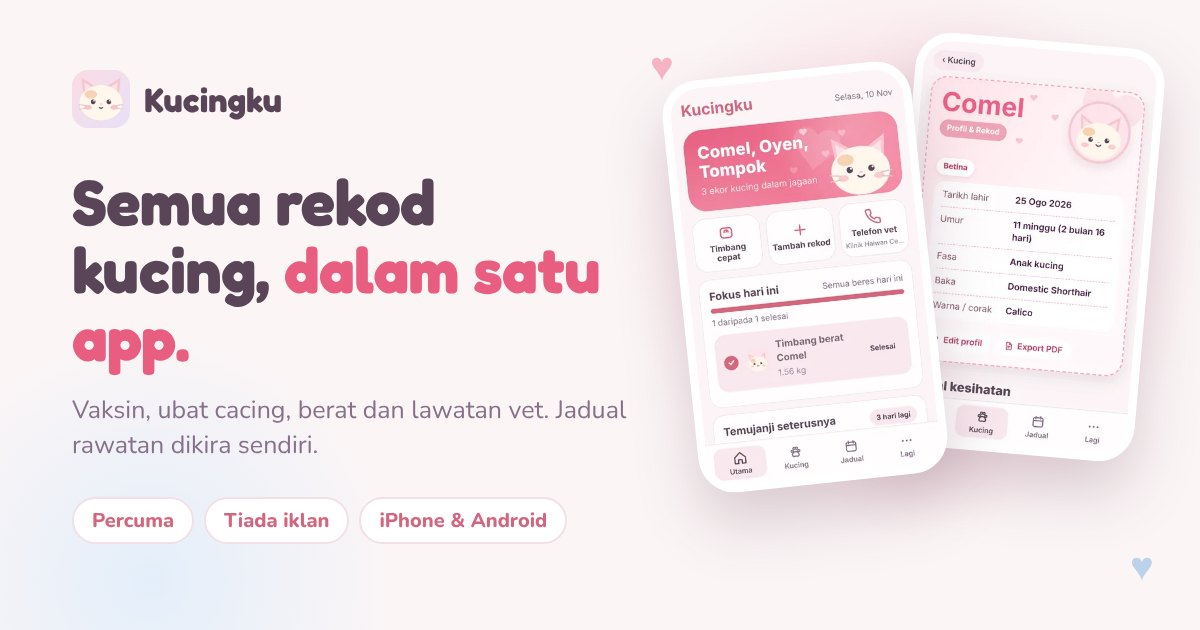
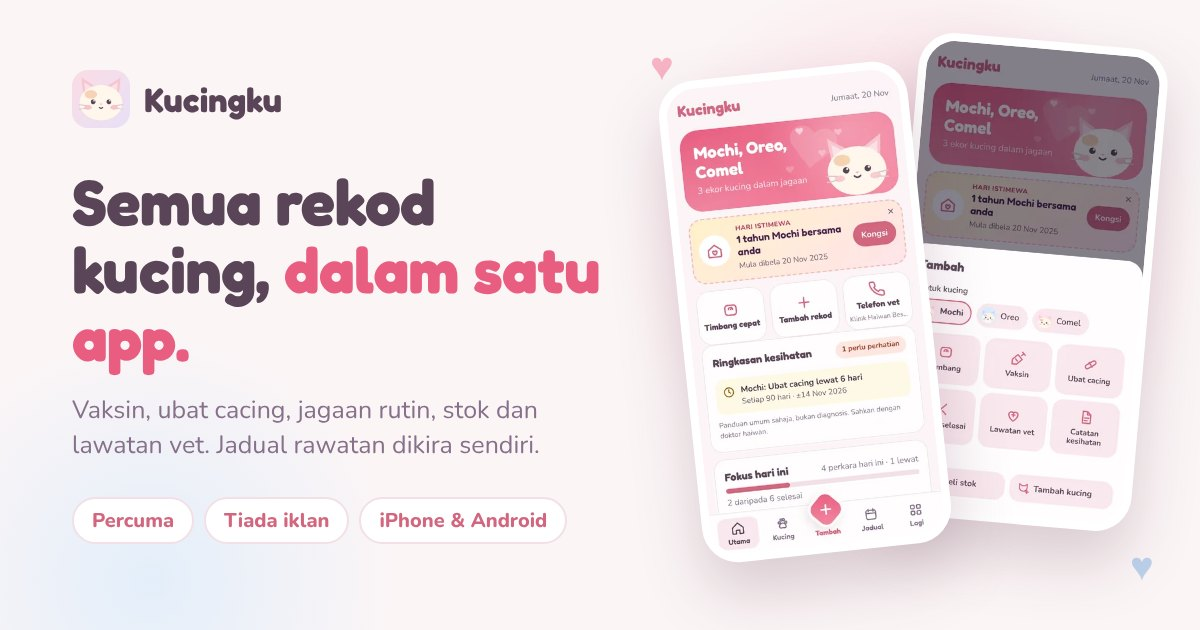
Website: Apa yang baharu (/tentang#perubahan) daripada changelog.json, ciri v1.9 dan screenshot baharu
- Paparan changelog dalam /tentang (#perubahan): tapis Baharu / Lebih baik / Dibaiki, 7 versi terkini + versi lama
- Kotak 3 perubahan terkini, pil versi di menu & hero, versi footer dibaca daripada changelog.json
- 9 kad ciri; lencana Baharu / Reka baharu automatik 30 hari dari tarikh versi (data-v)
- 6 screenshot app v1.9.3 (img/web-*.webp); gambar pratonton link (og.jpg) dikemas kini
- Tiada perubahan pada app, sw.js atau changelog.json: tiada popup kemas kini di telefon
- 7 ujian baharu (250 lulus)

Claude-Session: https://claude.ai/code/session_018GxnzPezswWxvQLYhCFrPb

diff --git a/tentang.html b/tentang.html
@@ -35,19 +35,21 @@
       <a href="#cara">Cara mula</a>
       <a href="#privasi">Privasi</a>
       <a href="#soalan">Soalan lazim</a>
+      <a href="#perubahan" class="nvnew">Apa yang baharu<span class="vpill" data-ver hidden></span></a>
     </nav>
     <a class="btn sm only-desk" href="#dapatkan">Dapatkan app</a>
     <a class="btn sm only-mob" href="/?utm_source=web">Buka app</a>
   </div>
 </header>
 
-<main>
+<main id="laman">
 <div class="hero">
   <div class="wrap">
     <div>
+      <a class="newpill" href="#perubahan" data-newpill hidden><span class="tg tn">Baharu</span><span data-newtext>Apa yang baharu</span><span aria-hidden="true">→</span></a>
       <div class="chips"><span class="chip">Percuma</span><span class="chip">Tiada iklan</span><span class="chip">Tanpa daftar akaun</span></div>
       <h1>Semua rekod kucing, <em>dalam satu app.</em></h1>
-      <p class="lead">Profil, berat, vaksin, ubat cacing dan lawatan vet untuk setiap kucing anda. Kucingku kira sendiri bila rawatan seterusnya, jadi anda tak perlu ingat.</p>
+      <p class="lead">Profil, berat, vaksin, ubat cacing, jagaan rutin dan stok makanan untuk setiap kucing anda. Kucingku kira sendiri bila rawatan seterusnya, dan beri amaran awal bila ada yang perlu perhatian.</p>
 
       <div class="get only-desk" id="dapatkan">
         <img class="qrb" src="icons/qr.svg" alt="Kod QR untuk buka Kucingku di telefon" width="136" height="136">
@@ -69,10 +71,10 @@
 
     <div class="phones" aria-hidden="true">
       <span class="heart h1">♥</span><span class="heart h2">♥</span><span class="heart h3">♥</span>
-      <div class="phone a"><img src="img/pratonton-utama.webp" alt="" width="360" height="613"></div>
-      <div class="phone b"><img src="img/pratonton-profil.webp" alt="" width="360" height="613"></div>
-      <div class="badge b1"><i>✓</i>Ubat cacing: selesai</div>
-      <div class="badge b2"><i>♥</i>Vaksin seterusnya: 7 hari</div>
+      <div class="phone a"><img src="img/web-utama.webp" alt="" width="360" height="720"></div>
+      <div class="phone b"><img src="img/web-tambah.webp" alt="" width="360" height="720"></div>
+      <div class="badge b1"><i class="w">!</i>Mochi: ubat cacing lewat 6 hari</div>
+      <div class="badge b2"><i>✓</i>Pasir: tahan ±9 hari lagi</div>
     </div>
   </div>
 </div>
@@ -81,18 +83,30 @@
   <span>iPhone &amp; Android</span><span>Bahasa Melayu &amp; English</span><span>Boleh dibuka tanpa internet</span><span>Data kekal dalam telefon anda</span>
 </div></div>
 
+<section class="wn" data-wn hidden aria-labelledby="wn-h">
+  <div class="wrap">
+    <div class="wnc">
+      <div class="wnh"><div><p class="kick">Apa yang baharu</p><h2 id="wn-h" data-wnh>Kemas kini terkini</h2></div><a href="#perubahan">Lihat semua perubahan →</a></div>
+      <ul class="wnl" data-wnl></ul>
+    </div>
+  </div>
+</section>
+
 <section id="ciri">
   <div class="wrap">
-    <div class="sec-h"><p class="kick">Ciri</p><h2>Semua yang anda perlu untuk jaga kucing</h2><p>Dibina oleh pemilik kucing, untuk pemilik kucing di Malaysia.</p></div>
+    <div class="sec-h"><p class="kick">Ciri</p><h2>Semua yang anda perlu untuk jaga kucing</h2><p>Dibina oleh pemilik kucing, untuk pemilik kucing di Malaysia. Terus dikemas kini.</p></div>
     <div class="feat">
-      <article class="f"><div class="ic"><svg viewBox="0 0 24 24"><path d="M12 21s-7-4.4-9.3-9A5.3 5.3 0 0 1 12 6.6 5.3 5.3 0 0 1 21.3 12C19 16.6 12 21 12 21Z"/></svg></div><h3>Profil setiap kucing</h3><p>Gambar, jantina, baka, warna dan no. microchip. Tema pink untuk betina, biru untuk jantan.</p></article>
-      <article class="f"><div class="ic"><svg viewBox="0 0 24 24"><path d="M12 8v4l3 2"/><circle cx="12" cy="12" r="9"/></svg></div><h3>Umur &amp; fasa hidup</h3><p>Umur dikira dalam minggu dan bulan, dengan fasa semasa seperti anak kucing atau remaja, serta petua jagaan.</p></article>
-      <article class="f"><div class="ic"><svg viewBox="0 0 24 24"><rect x="3" y="5" width="18" height="16" rx="3"/><path d="M16 3v4M8 3v4M3 10h18M9 15l2 2 4-4"/></svg></div><h3>Jadual vaksin &amp; ubat cacing</h3><p>Tarikh rawatan seterusnya dikira sendiri daripada tarikh lahir dan rekod terakhir.</p></article>
-      <article class="f"><div class="ic"><svg viewBox="0 0 24 24"><path d="M9 11l3 3 8-8"/><path d="M20 12v6a3 3 0 0 1-3 3H6a3 3 0 0 1-3-3V7a3 3 0 0 1 3-3h9"/></svg></div><h3>Fokus hari ini</h3><p>Senarai semak apa yang perlu dibuat hari ini, dan temujanji vet seterusnya dengan butang telefon.</p></article>
-      <article class="f"><div class="ic"><svg viewBox="0 0 24 24"><path d="M3 17l5-5 4 4 8-9"/><path d="M14 7h6v6"/></svg></div><h3>Graf berat</h3><p>Timbang semua kucing sekali gus dan lihat graf pertumbuhan. Gram atau kg, ikut pilihan anda.</p></article>
-      <article class="f"><div class="ic"><svg viewBox="0 0 24 24"><path d="M14 3H7a2 2 0 0 0-2 2v14a2 2 0 0 0 2 2h10a2 2 0 0 0 2-2V8Z"/><path d="M14 3v5h5M9 13h6M9 17h4"/></svg></div><h3>PDF untuk vet</h3><p>Sejarah penuh kucing dalam satu PDF yang cantik. Tunjuk terus kepada doktor haiwan semasa lawatan.</p></article>
+      <article class="f" data-v="1.9.3" data-t="new"><div class="ic"><svg viewBox="0 0 24 24"><path d="M12 5v14M5 12h14"/></svg></div><h3>＋ Tambah dari mana-mana</h3><p>Satu butang di tengah menu: timbang, vaksin, ubat cacing, jagaan, lawatan vet, catatan kesihatan atau stok dibeli.</p></article>
+      <article class="f" data-v="1.9.2" data-t="new"><div class="ic"><svg viewBox="0 0 24 24"><path d="M3 12h4l3-8 4 16 3-8h4"/></svg></div><h3>Ringkasan kesihatan</h3><p>Amaran awal bila berat turun berturut-turut, belum ditimbang, atau vaksin dan ubat cacing lewat.</p></article>
+      <article class="f"><div class="ic"><svg viewBox="0 0 24 24"><path d="M3 5h18v16H3zM16 3v4M8 3v4M3 10h18"/></svg></div><h3>Jadual vaksin &amp; ubat cacing</h3><p>Tarikh rawatan seterusnya dikira sendiri daripada tarikh lahir dan rekod terakhir.</p></article>
+      <article class="f" data-v="1.9.1" data-t="new"><div class="ic"><svg viewBox="0 0 24 24"><path d="M6 9a3 3 0 1 0 0-6 3 3 0 0 0 0 6zM6 21a3 3 0 1 0 0-6 3 3 0 0 0 0 6zM20 4L8.1 15.9M14.5 14.5L20 20M8.1 8.1L12 12"/></svg></div><h3>Jagaan rutin</h3><p>Potong kuku, mandi, sikat bulu, rawatan kutu. Tandakan Selesai dan app ingatkan bila tiba masanya.</p></article>
+      <article class="f" data-v="1.9.2" data-t="new"><div class="ic"><svg viewBox="0 0 24 24"><path d="M4 7l8-4 8 4v10l-8 4-8-4zM4 7l8 4 8-4M12 11v10"/></svg></div><h3>Stok makanan &amp; pasir</h3><p>Rekod jenama dan tekan Dah beli. App anggar bila stok akan habis dan beri amaran awal.</p></article>
+      <article class="f" data-v="1.9.2" data-t="new"><div class="ic"><svg viewBox="0 0 24 24"><path d="M4 12v7h16v-7M12 3v12M7 8l5-5 5 5"/></svg></div><h3>Kongsi kad &amp; hari istimewa</h3><p>Kad profil dan kad hari lahir untuk WhatsApp, Threads atau IG Story. Ingatan ulang tahun mula dibela.</p></article>
+      <article class="f"><div class="ic"><svg viewBox="0 0 24 24"><path d="M12 21s-7-4.4-9.3-9A5.3 5.3 0 0 1 12 6.6 5.3 5.3 0 0 1 21.3 12C19 16.6 12 21 12 21Z"/></svg></div><h3>Profil &amp; fasa hidup</h3><p>Umur dalam minggu dan bulan, fasa semasa seperti anak kucing atau remaja, dengan petua jagaan.</p></article>
+      <article class="f"><div class="ic"><svg viewBox="0 0 24 24"><path d="M3 17l5-5 4 4 8-9M14 7h6v6"/></svg></div><h3>Graf berat &amp; timbang cepat</h3><p>Timbang semua kucing sekali gus dan lihat graf pertumbuhan, dalam gram atau kg.</p></article>
+      <article class="f" data-v="1.9.0" data-t="imp"><div class="ic"><svg viewBox="0 0 24 24"><path d="M14 3H7a2 2 0 0 0-2 2v14a2 2 0 0 0 2 2h10a2 2 0 0 0 2-2V8ZM14 3v5h5M9 13h6M9 17h4"/></svg></div><h3>PDF untuk vet</h3><p>Sejarah penuh kucing dalam satu PDF kemas: kad ringkasan, timeline dan jadual. Tiada kandungan terpotong.</p></article>
     </div>
-    <p class="also">Juga: rekod perbelanjaan, simpan klinik vet, export ke kalendar telefon, dan 5 pilihan tema warna.</p>
+    <p class="also">Juga: rekod perbelanjaan, simpan klinik vet, export ke kalendar telefon, maklum balas dalam app dan 5 pilihan tema warna.</p>
   </div>
 </section>
 
@@ -100,10 +114,12 @@
   <div class="wrap">
     <div class="sec-h"><p class="kick">Contoh paparan</p><h2 id="shots-h">Comel, kemas dan mudah guna</h2></div>
     <div class="gal">
-      <figure><div class="phone"><img src="img/pratonton-utama.webp" alt="Skrin Utama Kucingku" width="360" height="613" loading="lazy"></div><figcaption>Utama<span>Fokus hari ini &amp; tindakan pantas</span></figcaption></figure>
-      <figure><div class="phone"><img src="img/pratonton-kucing.webp" alt="Senarai kucing dalam Kucingku" width="360" height="613" loading="lazy"></div><figcaption>Kucing anda<span>Berat, rekod &amp; rawatan seterusnya</span></figcaption></figure>
-      <figure><div class="phone"><img src="img/pratonton-profil.webp" alt="Profil kucing dalam Kucingku" width="360" height="613" loading="lazy"></div><figcaption>Profil<span>Umur, fasa &amp; maklumat lengkap</span></figcaption></figure>
-      <figure><div class="phone"><img src="img/pratonton-jadual.webp" alt="Jadual kesihatan kucing dalam Kucingku" width="360" height="613" loading="lazy"></div><figcaption>Jadual kesihatan<span>Tanda ✓ bila rawatan selesai</span></figcaption></figure>
+      <figure><div class="phone"><img src="img/web-utama.webp" alt="Skrin Utama Kucingku" width="360" height="720" loading="lazy"></div><figcaption>Utama<span>Ringkasan kesihatan &amp; hari istimewa</span></figcaption></figure>
+      <figure><div class="phone"><img src="img/web-tambah.webp" alt="Lembaran Tambah dalam Kucingku" width="360" height="720" loading="lazy"></div><figcaption>＋ Tambah<span>Semua rekod dalam satu tekan</span></figcaption></figure>
+      <figure><div class="phone"><img src="img/web-profil.webp" alt="Profil kucing dalam Kucingku" width="360" height="720" loading="lazy"></div><figcaption>Profil<span>Umur, fasa &amp; maklumat lengkap</span></figcaption></figure>
+      <figure><div class="phone"><img src="img/web-kad.webp" alt="Kongsi kad profil kucing" width="360" height="720" loading="lazy"></div><figcaption>Kongsi kad<span>Gambar untuk WhatsApp &amp; IG Story</span></figcaption></figure>
+      <figure><div class="phone"><img src="img/web-stok.webp" alt="Stok makanan dan pasir dalam Kucingku" width="360" height="720" loading="lazy"></div><figcaption>Stok<span>Tahu bila perlu beli lagi</span></figcaption></figure>
+      <figure><div class="phone"><img src="img/web-jadual.webp" alt="Jadual rawatan dan jagaan kucing" width="360" height="720" loading="lazy"></div><figcaption>Jadual<span>Hari ini &amp; 7 hari akan datang</span></figcaption></figure>
     </div>
   </div>
 </section>
@@ -171,10 +187,40 @@
 </section>
 </main>
 
+<main id="perubahan-v" class="clv" hidden aria-labelledby="cl-h">
+  <div class="wrap clw">
+    <div class="clm">
+      <p class="kick">Senarai perubahan</p>
+      <h1 id="cl-h">Apa yang baharu dalam Kucingku</h1>
+      <p class="lead">Setiap kemas kini app, daripada yang terbaru. App di telefon anda dikemas kini sendiri: bila ada versi baharu, Kucingku akan tunjuk apa yang berubah.</p>
+      <div class="clf" role="group" aria-label="Tapis jenis perubahan" data-clf>
+        <button type="button" data-f="all" aria-pressed="true">Semua <span></span></button>
+        <button type="button" data-f="new" aria-pressed="false">Baharu <span></span></button>
+        <button type="button" data-f="imp" aria-pressed="false">Lebih baik <span></span></button>
+        <button type="button" data-f="fix" aria-pressed="false">Dibaiki <span></span></button>
+      </div>
+      <ol class="cll" data-cll></ol>
+      <p class="mute cle" data-cle hidden>Tiada perubahan jenis ini dalam versi yang dipaparkan.</p>
+      <button type="button" class="btn g clmore" data-clmore hidden></button>
+      <p class="mute cle" data-clerr hidden>Senarai perubahan tidak dapat dimuat. Cuba muat semula halaman ini.</p>
+    </div>
+    <aside class="cla">
+      <div class="clq">
+        <b>Belum guna Kucingku?</b>
+        <img class="qrb only-desk" src="icons/qr.svg" alt="Kod QR untuk buka Kucingku di telefon" width="150" height="150">
+        <p class="only-desk">Imbas dengan kamera telefon. Percuma, tanpa daftar akaun.</p>
+        <a class="btn sm only-desk" href="https://wa.me/?text=Kucingku%20%E2%80%93%20app%20rekod%20kucing%20percuma%3A%20https%3A%2F%2Fkucingku-bay.vercel.app%2F%3Futm_source%3Dweb" target="_blank" rel="noopener">Hantar ke WhatsApp</a>
+        <a class="btn only-mob" href="/?utm_source=web">Buka Kucingku</a>
+      </div>
+      <div class="cls"><b>Ada cadangan?</b><p>Banyak fungsi di sini datang daripada cadangan pengguna. Hantar melalui app: Lagi → Maklum balas.</p></div>
+    </aside>
+  </div>
+</main>
+
 <footer>
   <div class="wrap">
-    <span>© 2026 Kucingku · v1.8.7</span>
-    <nav aria-label="Pautan bawah"><a href="/privasi">Dasar Privasi</a><a href="https://docs.google.com/forms/d/e/1FAIpQLSfK5e5iSrBBUDWH5bMCLIxYPe6dWAKIaNkdOt_UXYqnKObJyw/viewform" target="_blank" rel="noopener">Maklum balas</a></nav>
+    <span>© 2026 Kucingku<span data-ver-f></span></span>
+    <nav aria-label="Pautan bawah"><a href="#perubahan">Apa yang baharu</a><a href="/privasi">Dasar Privasi</a><a href="https://docs.google.com/forms/d/e/1FAIpQLSfK5e5iSrBBUDWH5bMCLIxYPe6dWAKIaNkdOt_UXYqnKObJyw/viewform" target="_blank" rel="noopener">Maklum balas</a></nav>
     <p class="disc">Panduan dalam Kucingku bersifat umum dan bukan nasihat veterinar.</p>
   </div>
 </footer>

diff --git a/web.js b/web.js
@@ -41,6 +41,7 @@
   var header = document.querySelector('.top');
   var smooth = !(window.matchMedia && matchMedia('(prefers-reduced-motion: reduce)').matches);
   function goTo(id) {
+    if (id !== 'perubahan') leaveCl();
     var y = 0, el = id && id !== 'top' ? document.getElementById(id) : null;
     if (el && id === 'dapatkan') {
       var r = el.getBoundingClientRect(), bottom = r.bottom + window.scrollY + 24;
@@ -56,11 +57,115 @@
     var a = e.target.closest && e.target.closest('a[href^="#"]');
     if (!a || e.defaultPrevented || e.button !== 0 || e.metaKey || e.ctrlKey || e.shiftKey) return;
     var id = a.getAttribute('href').slice(1);
+    if (id === 'perubahan') { e.preventDefault(); if (!onCl()) location.hash = 'perubahan'; else window.scrollTo(0, 0); return; }
     if (id && id !== 'top' && !document.getElementById(id)) return;
     e.preventDefault();
     goTo(id);
   });
   if (location.hash === '#top') goTo('top');
+
+  // ---- Apa yang baharu (v1.9) ----
+  // Sumber tunggal: changelog.json (sama seperti popup kemas kini dalam app). Halaman changelog ialah
+  // paparan #perubahan dalam /tentang, supaya sw.js tidak perlu diubah (ubah sw.js = popup di telefon).
+  var TG = { 'new': ['Baharu', 'tn'], imp: ['Lebih baik', 'ti'], fix: ['Dibaiki', 'tf'] };
+  var MS = 'Jan Feb Mac Apr Mei Jun Jul Ogo Sep Okt Nov Dis'.split(' ');
+  var NEWDAYS = 30, RECENT = 7, CL = null, clErr = false, clF = 'all', clOld = false;
+  var laman = document.getElementById('laman'), clv = document.getElementById('perubahan-v'), T0 = document.title;
+  function $$(sel) { return Array.prototype.slice.call(document.querySelectorAll(sel)); }
+  function el(tag, cls, txt) { var e = document.createElement(tag); if (cls) e.className = cls; if (txt != null) e.textContent = txt; return e; }
+  function tag(t) { var x = TG[t] || TG['new']; return el('span', 'tg ' + x[1], x[0]); }
+  function fd(d) { var p = String(d).split('-'); return (+p[2]) + ' ' + MS[(+p[1]) - 1] + ' ' + p[0]; }
+  function age(d) { var t = Date.parse(d + 'T00:00:00+08:00'); return isNaN(t) ? 1e9 : (Date.now() - t) / 864e5; }
+  function okEntry(e) { return e && typeof e.v === 'string' && /^\d{4}-\d{2}-\d{2}$/.test(e.d) && Array.isArray(e.i); }
+
+  function fill() {
+    var top = CL[0];
+    $$('[data-ver]').forEach(function (x) { x.textContent = 'v' + top.v; x.hidden = false; });
+    $$('[data-ver-f]').forEach(function (x) { x.textContent = ' · v' + top.v; });
+    var fresh = age(top.d) <= NEWDAYS;
+    $$('[data-newpill]').forEach(function (x) { x.hidden = !fresh; });
+    $$('[data-newtext]').forEach(function (x) { x.textContent = 'Apa yang baharu dalam v' + top.v; });
+    var wn = document.querySelector('[data-wn]'), wl = document.querySelector('[data-wnl]'), wh = document.querySelector('[data-wnh]');
+    if (wn && wl) {
+      wl.textContent = '';
+      top.i.slice(0, 3).forEach(function (it) { var li = el('li'); li.appendChild(tag(it.t)); li.appendChild(el('span', '', it.ms)); wl.appendChild(li); });
+      if (wh) wh.textContent = 'v' + top.v + ' · ' + fd(top.d);
+      wn.hidden = !top.i.length;
+    }
+    // Lencana pada kad ciri: hanya jika versi kad itu dikeluarkan dalam 30 hari.
+    $$('.f[data-v]').forEach(function (card) {
+      var e = CL.filter(function (x) { return x.v === card.getAttribute('data-v'); })[0];
+      var old = card.querySelector('.nb'); if (old) old.remove();
+      card.classList.remove('hasnb');
+      if (!e || age(e.d) > NEWDAYS) return;
+      var imp = card.getAttribute('data-t') === 'imp';
+      var b = el('span', 'tg nb ' + (imp ? 'ti' : 'tn'), imp ? 'Reka baharu' : 'Baharu');
+      card.appendChild(b); card.classList.add('hasnb');
+    });
+    if (onCl()) renderCl();
+  }
+
+  function renderCl() {
+    var list = document.querySelector('[data-cll]'), more = document.querySelector('[data-clmore]'), empty = document.querySelector('[data-cle]'), err = document.querySelector('[data-clerr]');
+    if (!list) return;
+    if (err) err.hidden = !clErr || !!CL;
+    if (!CL) return;
+    $$('[data-clf] button').forEach(function (b) {
+      var f = b.getAttribute('data-f');
+      b.setAttribute('aria-pressed', f === clF ? 'true' : 'false');
+      var n = CL.reduce(function (a, e) { return a + e.i.filter(function (i) { return f === 'all' || i.t === f; }).length; }, 0);
+      var sp = b.querySelector('span'); if (sp) sp.textContent = n;
+    });
+    list.textContent = '';
+    var shown = 0;
+    (clOld ? CL : CL.slice(0, RECENT)).forEach(function (e, n) {
+      var items = e.i.filter(function (i) { return clF === 'all' || i.t === clF; });
+      if (!items.length) return;
+      shown++;
+      var li = el('li'), h = el('div', 'clvh');
+      h.appendChild(el('b', '', 'v' + e.v)); h.appendChild(el('span', '', fd(e.d)));
+      if (n === 0) h.appendChild(el('span', 'cur', 'Terkini'));
+      var ul = el('ul', 'cli');
+      items.forEach(function (it) { var r = el('li'); r.appendChild(tag(it.t)); r.appendChild(el('span', '', it.ms)); ul.appendChild(r); });
+      li.appendChild(h); li.appendChild(ul); list.appendChild(li);
+    });
+    if (empty) empty.hidden = shown > 0;
+    if (more) {
+      more.hidden = CL.length <= RECENT;
+      more.textContent = clOld ? 'Sembunyikan versi lama' : 'Lihat versi lebih lama (v' + CL[CL.length - 1].v + ' – v' + CL[RECENT].v + ')';
+    }
+  }
+
+  function onCl() { return location.hash === '#perubahan'; }
+  function route() {
+    if (!laman || !clv) return;
+    var on = onCl();
+    if (on === !clv.hidden) return;
+    laman.hidden = on; clv.hidden = !on;
+    document.title = on ? 'Apa yang baharu · Kucingku' : T0;
+    if (on) renderCl();
+    window.scrollTo(0, 0);
+  }
+  // Keluar dari paparan changelog bila menu lain ditekan (Ciri, Cara mula, logo...).
+  function leaveCl() {
+    if (!onCl() || !laman || !clv) return;
+    try { history.pushState(null, '', location.pathname + location.search); } catch (e) {}
+    laman.hidden = false; clv.hidden = true; document.title = T0;
+  }
+  addEventListener('hashchange', route);
+  addEventListener('popstate', route);
+  document.addEventListener('click', function (e) {
+    var b = e.target.closest && e.target.closest('[data-clf] button');
+    if (b) { clF = b.getAttribute('data-f'); renderCl(); return; }
+    if (e.target.closest && e.target.closest('[data-clmore]')) { clOld = !clOld; renderCl(); }
+  });
+  route();
+  try {
+    fetch('changelog.json', { cache: 'no-cache' })
+      .then(function (r) { if (!r.ok) throw new Error('http'); return r.json(); })
+      .then(function (d) { if (!Array.isArray(d) || !d.length || !d.every(okEntry)) throw new Error('data'); CL = d; fill(); })
+      .catch(function () { clErr = true; renderCl(); });
+  } catch (e) { clErr = true; }
 
   var top = header;
   if (top) {

diff --git a/web.css b/web.css
@@ -178,3 +178,63 @@ section.tight{padding-top:20px}
 @keyframes pulse{0%{box-shadow:0 0 0 0 rgba(210,102,127,.45),0 18px 40px var(--sh)}100%{box-shadow:0 0 0 18px rgba(210,102,127,0),0 18px 40px var(--sh)}}
 .get.pulse{animation:pulse 1s ease-out 2}
 @media (prefers-reduced-motion:reduce){.get.pulse{animation:none}}
+
+/* v1.9: Apa yang baharu (changelog daripada changelog.json) */
+.top nav a.nvnew{color:var(--btn);opacity:1;display:inline-flex;align-items:center}
+.vpill{background:var(--h1);color:#fff;border-radius:99px;font-size:11px;padding:1px 7px;margin-left:6px;line-height:1.5}
+.newpill{display:inline-flex;align-items:center;gap:10px;background:#fff;border:1px solid var(--line);border-radius:99px;padding:6px 14px 6px 6px;text-decoration:none;color:var(--ink);font-size:14px;font-weight:700;margin-bottom:18px;box-shadow:0 6px 16px rgba(120,80,100,.08)}
+.newpill:hover{border-color:var(--h2)}
+.newpill>span:last-child{color:var(--btn)}
+.tg{display:inline-block;border-radius:99px;padding:2px 10px;font-size:12px;font-weight:800;letter-spacing:.04em;text-transform:uppercase;white-space:nowrap;line-height:1.6}
+.tn{background:#E1F3EA;color:#13734F}.ti{background:#E4EEF9;color:#2D62A0}.tf{background:#FCEADB;color:#9A4F12}
+.badge i.w{background:#FDF1D8;color:#9A6A0C}
+.wn{padding:72px 0 0}
+.wnc{background:var(--card);border:1px solid var(--line);border-radius:32px;padding:32px}
+.wnh{display:flex;flex-wrap:wrap;align-items:flex-end;gap:12px 24px;margin-bottom:22px}
+.wnh .kick{margin-bottom:4px}
+.wnh h2{font-size:32px;font-weight:700}
+.wnh a{margin-left:auto;font-weight:700;text-decoration:none}
+.wnl{list-style:none;padding:0;display:grid;grid-template-columns:repeat(3,minmax(0,1fr));gap:14px}
+.wnl li{background:var(--bg);border-radius:20px;padding:18px;display:flex;flex-direction:column;gap:10px;align-items:flex-start;font-size:15px}
+.f{position:relative}
+.f .nb{position:absolute;top:20px;right:20px}
+.f.hasnb h3{padding-right:96px}
+.gal{grid-template-columns:repeat(6,minmax(0,1fr));gap:22px}
+.gal figcaption span{font-size:14px}
+.clv{padding:56px 0 80px}
+.clw{display:flex;flex-wrap:wrap;gap:40px;align-items:flex-start}
+.clm{flex:999 1 560px;min-width:0}
+.clm h1{font-size:48px;font-weight:700;margin-bottom:10px}
+.clm .lead{margin:0 0 24px;font-size:18px}
+.clf{display:flex;flex-wrap:wrap;gap:8px;margin-bottom:24px}
+.clf button{min-height:44px;border-radius:99px;padding:8px 18px;font:700 15px Nunito,system-ui,sans-serif;cursor:pointer;background:#fff;color:var(--ink);border:1px solid var(--line)}
+.clf button[aria-pressed="true"]{background:var(--ink);color:#fff;border-color:var(--ink)}
+.clf button span{opacity:.75;font-weight:600}
+.cll{list-style:none;padding:0;display:flex;flex-direction:column;gap:16px}
+.cll>li{background:var(--card);border:1px solid var(--line);border-radius:26px;padding:24px 26px;display:flex;flex-wrap:wrap;gap:14px 28px}
+.clvh{flex:0 0 150px;display:flex;flex-direction:column;gap:4px;align-items:flex-start}
+.clvh b{font:700 24px/1.1 Fredoka,system-ui,sans-serif}
+.clvh span{color:var(--mute);font-size:14px}
+.clvh .cur{background:var(--h1);color:#fff;border-radius:99px;padding:1px 10px;font-size:12px;font-weight:800;margin-top:6px}
+.cli{flex:1 1 380px;list-style:none;padding:0;display:flex;flex-direction:column;gap:12px}
+.cli li{display:flex;gap:12px;align-items:flex-start;font-size:16px}
+.cli .tg{flex:none;min-width:100px;text-align:center;margin-top:2px}
+.clmore{display:flex;margin:20px auto 0}
+.cle{text-align:center;margin-top:16px}
+.cla{flex:1 1 280px;display:grid;gap:16px}
+.clq{background:var(--card);border:1px solid var(--line);border-radius:26px;padding:24px;display:flex;flex-direction:column;gap:10px;align-items:center;text-align:center;box-shadow:0 18px 40px var(--sh)}
+.clq b{font:600 20px Fredoka,system-ui,sans-serif}
+.clq .qrb{width:150px;height:150px}
+.clq p{font-size:15px;color:var(--mute)}
+.mob .clq a.only-mob{display:inline-flex}
+.cls{background:var(--soft);border-radius:22px;padding:20px;font-size:15px}
+.cls b{font:600 18px Fredoka,system-ui,sans-serif;display:block;margin-bottom:6px}
+.cls p{color:var(--mute)}
+@media (max-width:980px){.gal{grid-template-columns:repeat(3,minmax(0,1fr))}.wnl{grid-template-columns:1fr}}
+@media (max-width:640px){
+  .gal{grid-template-columns:repeat(2,minmax(0,1fr))}
+  .wn{padding-top:48px}.wnc{padding:22px}.wnh h2{font-size:26px}.wnh a{margin-left:0}
+  .clv{padding:28px 0 56px}.clm h1{font-size:32px}.clm .lead{font-size:16px}
+  .cll>li{padding:18px}.clvh{flex-basis:100%;flex-direction:row;align-items:center;gap:10px}.clvh .cur{margin-top:0}
+  .cli li{flex-direction:column;gap:6px}.cli .tg{min-width:0}
+}

diff --git a/privasi.html b/privasi.html
@@ -64,7 +64,7 @@
 <footer>
   <div class="wrap">
     <span>© 2026 Kucingku</span>
-    <nav aria-label="Pautan bawah"><a href="/tentang">Laman utama</a><a href="https://docs.google.com/forms/d/e/1FAIpQLSfK5e5iSrBBUDWH5bMCLIxYPe6dWAKIaNkdOt_UXYqnKObJyw/viewform" target="_blank" rel="noopener">Maklum balas</a></nav>
+    <nav aria-label="Pautan bawah"><a href="/tentang">Laman utama</a><a href="/tentang#perubahan">Apa yang baharu</a><a href="https://docs.google.com/forms/d/e/1FAIpQLSfK5e5iSrBBUDWH5bMCLIxYPe6dWAKIaNkdOt_UXYqnKObJyw/viewform" target="_blank" rel="noopener">Maklum balas</a></nav>
   </div>
 </footer>
 <script src="/_vercel/insights/script.js" defer></script>

diff --git a/README.md b/README.md
@@ -34,6 +34,7 @@ Aplikasi web untuk merekod kucing peliharaan: profil, berat, vaksin, ubat cacing
 - **Mod ujian:** tambah `?dev` pada pautan untuk menggunakan app dalam pelayar tanpa memasang (disimpan pada peranti itu, kunci `kucingku-install-v1-dev`); `?dev=0` mematikannya.
 - **Luar talian:** service worker (`sw.js`) menyimpan fail app supaya Kucingku boleh dibuka tanpa internet. Versi baharu dimuat turun di latar dan digunakan pada pembukaan seterusnya. App yang dipasang juga meminta storan kekal (`navigator.storage.persist()`) supaya data tidak dipadam bila storan telefon hampir penuh.
 - **Butang Back Android:** setiap skrin dan borang ialah satu entri sejarah. Back menutup borang yang terbuka dahulu, kemudian kembali ke skrin sebelumnya.
+- **Apa yang baharu di website (20 Nov 2026):** `/tentang#perubahan` ialah halaman changelog website, dibaca terus daripada `changelog.json` oleh `web.js` (tapis Baharu / Lebih baik / Dibaiki, 7 versi terkini + versi lama). `/tentang` juga ada kotak 3 perubahan terkini, pil versi di menu, dan 9 kad ciri; kad dengan `data-v` dapat lencana *Baharu* (atau *Reka baharu* untuk `data-t="imp"`) selama 30 hari dari tarikh versi itu. Screenshot website: `img/web-*.webp` (screenshot skrin Pasang dalam app kekal `img/pratonton-*.webp`). Changelog sengaja di `/tentang#perubahan`, bukan laluan baharu: laluan baharu perlu diubah dalam `sw.js`, dan setiap perubahan `sw.js` memaparkan popup kemas kini di telefon pengguna. **Setiap keluaran yang ada fungsi baharu besar:** tambah/kemas kini kad ciri (dengan `data-v`) dan screenshot di `tentang.html`; changelog dan versi dikemas kini sendiri.
 - **Website rasmi (v1.8.7):** `/tentang` (`tentang.html`, `web.css`, `web.js`) ialah laman rasmi Kucingku: ciri, contoh paparan, cara mula 3 langkah, privasi, soalan lazim, kod QR, butang *Hantar ke WhatsApp* dan *Salin link* (`?utm_source=web`). Pelawat desktop/tablet yang membuka `/` dihantar ke `/tentang` (`goWeb()` dalam `app.js`); di telefon, laman ini menunjukkan butang *Buka Kucingku*. Pengesanan telefon dalam `web.js` mesti sama dengan `MOB` dalam `app.js`. `/privasi` (`privasi.html`) ialah Dasar Privasi (diperlukan untuk Play Store). Kedua-dua laman dilayan oleh `rewrites` dalam `vercel.json` dan service worker tidak mengambil alih laluan ini. Gambar pratonton link (Open Graph) `img/og.jpg` 1200×630 dipasang pada `/` dan `/tentang`.
 - **Contoh paparan pada skrin Pasang (v1.8.6):** 4 screenshot app (`img/pratonton-*.webp`, ±16KB setiap satu) boleh dileret di atas langkah pemasangan, supaya pengguna nampak app sebelum memasang. Untuk menukar gambar, ganti fail dengan nama yang sama (360px lebar, WebP).
 - **Keselamatan data (v1.8.5):** amaran "Data disimpan dalam telefon ini sahaja" pada skrin selamat datang dan Setting → Data; kad *Buat backup sekarang* di Utama selagi belum ada backup. Di iPhone, Export (backup, PDF, kalendar) membuka butang Kongsi (Simpan ke Fail, Google Drive, WhatsApp); jika tidak disokong, muat turun biasa digunakan.
